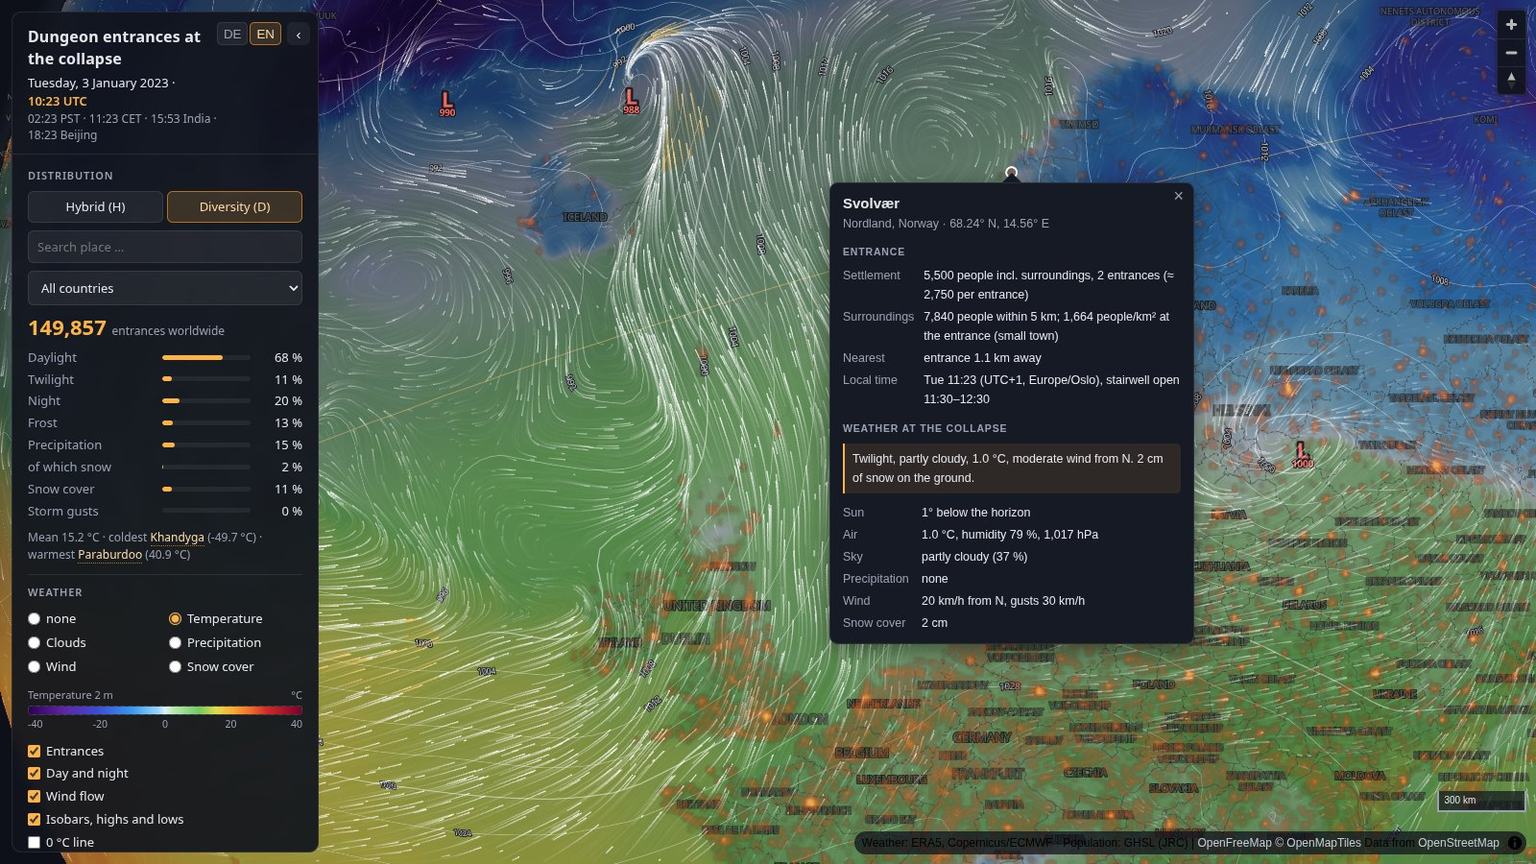
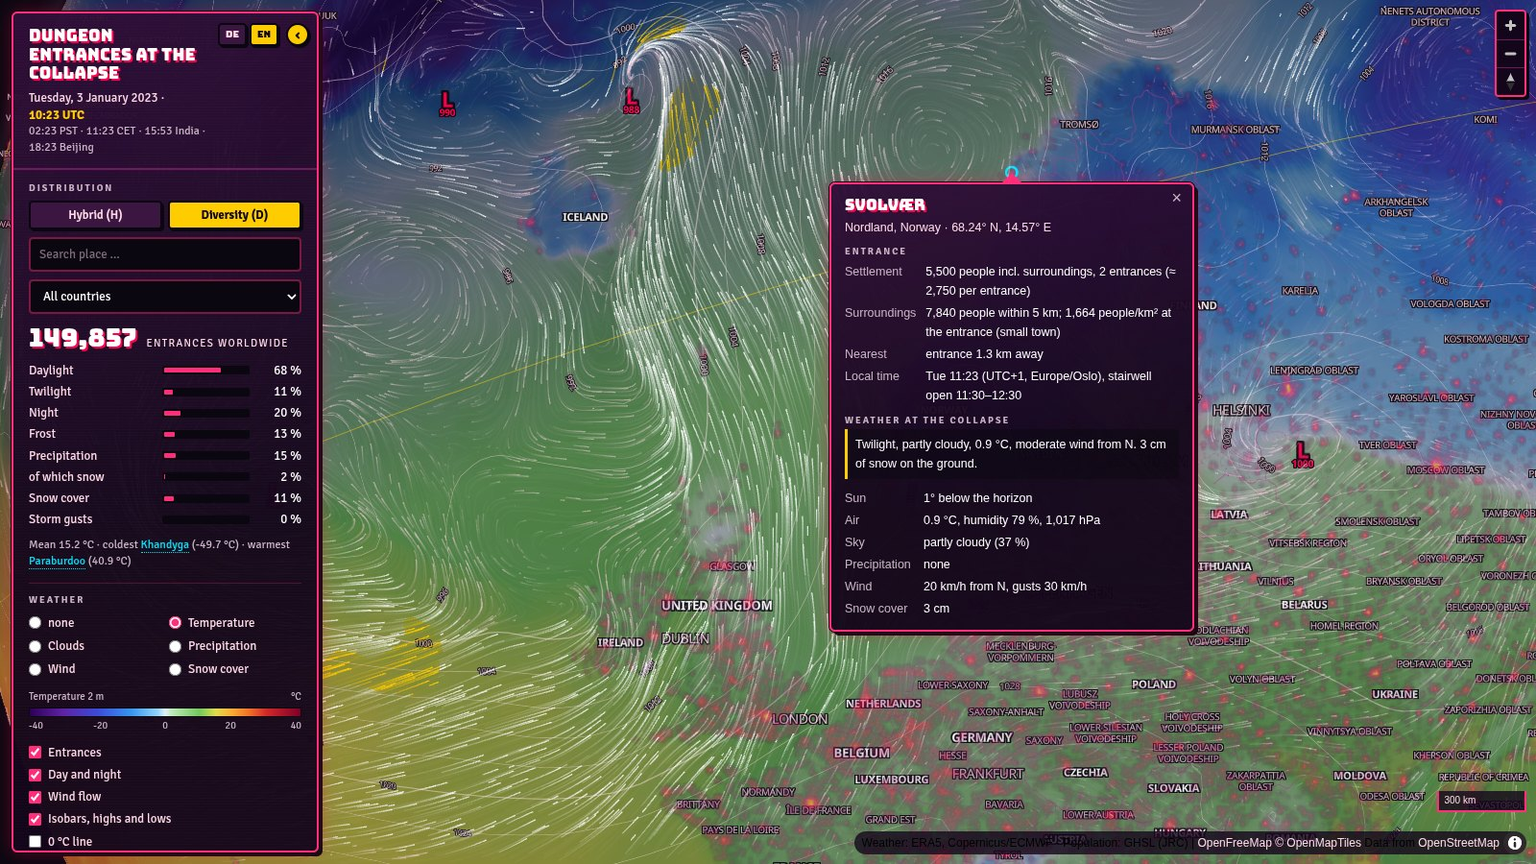
New look: plum panels, pink borders, ink shadows, Bungee headings
Panel, popup, controls and the cursor readout in a dark plum comic style; base map
tinted plum with light place labels on an ink halo, white country names; entrances
yellow, density from magenta to yellow and fading out earlier. Fonts: Bungee and
Signika (Google Fonts, OFL). New README screenshot.

diff --git a/web/app.css b/web/app.css
@@ -1,126 +1,160 @@
+/* Hausoptik: Pflaumen-Grund, pinker Rand, Tintenschatten, Überschriften mit Magenta-Versatz, Gelb und Cyan als Akzent.
+   House look: plum panels, pink border, ink drop shadow, headings with a magenta offset, yellow and cyan accents. */
 :root {
-  --grund: #0d1018;
-  --panel: rgba(16, 19, 28, 0.92);
-  --rand: rgba(255, 255, 255, 0.09);
-  --text: #e6e8ee;
-  --leise: #9aa1b2;
-  --akzent: #ffb347;
-  --akzent-dunkel: #b8701c;
-  --feld: rgba(255, 255, 255, 0.06);
+  --ink: #0b0710;
+  --plum: #14061a;
+  --plum-2: #2a1230;
+  --plum-3: #3a1640;
+  --plum-hell: #6e1a5c;
+  --mag: #ff004c;
+  --pink: #ff2d7a;
+  --yel: #ffcc00;
+  --cyan: #00e5ff;
+  --mute: #c9b3c4;
+  --rose: #ffd9e6;
+  --text: #fff;
+  --kopf: "Bungee", "Signika", sans-serif;
+  --panel-grund: linear-gradient(165deg, rgba(48, 14, 56, .96) 0%, rgba(20, 6, 26, .96) 62%);
+  --panel-schatten: 0 0 0 1px var(--ink), 0 0 16px rgba(255, 0, 76, .35), 4px 4px 0 var(--ink);
 }
 
 * { box-sizing: border-box; }
-html, body { margin: 0; height: 100%; background: var(--grund); color: var(--text);
-  font: 13px/1.45 system-ui, "Inter", "Segoe UI", sans-serif; overflow: hidden; }
-#karte { position: absolute; inset: 0; background: var(--grund); }
+html, body { margin: 0; height: 100%; color: var(--text); overflow: hidden;
+  font: 400 13px/1.4 "Signika", system-ui, sans-serif;
+  background: radial-gradient(ellipse at 60% 40%, #2a0f30 0%, var(--ink) 70%); }
+#karte { position: absolute; inset: 0; background: transparent; }
 #windfeld { position: absolute; left: 0; top: 0; pointer-events: none; }
 
+/* ---------- Bedienfeld ---------- */
 #panel { position: absolute; top: 12px; left: 12px; bottom: 12px; width: 320px; z-index: 3;
-  background: var(--panel); border: 1px solid var(--rand); border-radius: 10px;
-  display: flex; flex-direction: column; backdrop-filter: blur(6px); transition: transform .2s ease; }
-#panel.zu { transform: translateX(calc(-100% + 34px)); }
+  background: var(--panel-grund); border: 2px solid var(--pink); border-radius: 6px; box-shadow: var(--panel-schatten);
+  display: flex; flex-direction: column; transition: transform .2s ease; }
+#panel::after { content: ""; position: absolute; inset: 0; border-radius: 4px; pointer-events: none; opacity: .5;
+  background: repeating-linear-gradient(0deg, rgba(255, 255, 255, .025) 0 1px, transparent 1px 3px); }
+#panel.zu { transform: translateX(calc(-100% + 36px)); }
 #panel.zu .inhalt { visibility: hidden; }
-#panel header { position: relative; padding: 14px 92px 10px 16px; border-bottom: 1px solid var(--rand); }
-#panel h1 { margin: 0 0 4px; font-size: 16px; font-weight: 650; letter-spacing: .01em; }
-#panel .zeit { margin: 0; color: var(--text); }
-#panel .zeit b { color: var(--akzent); font-weight: 600; white-space: nowrap; }
-#panel .klein { color: var(--leise); font-size: 12px; }
-#einklappen { position: absolute; top: 10px; right: 8px; width: 24px; height: 24px; border: 0; border-radius: 6px;
-  background: var(--feld); color: var(--text); cursor: pointer; font-size: 15px; line-height: 1; }
-#panel.zu #einklappen { transform: rotate(180deg); }
-#panel .sprache { position: absolute; top: 10px; right: 38px; display: flex; gap: 2px; }
-#panel .sprache button { height: 24px; padding: 0 6px; border: 1px solid var(--rand); border-radius: 5px; background: var(--feld);
-  color: var(--leise); font: 600 10.5px/1 inherit; cursor: pointer; }
-#panel .sprache button.an { color: #ffd9a3; border-color: var(--akzent-dunkel); background: rgba(255, 179, 71, .16); }
+#panel header { position: relative; padding: 14px 108px 12px 16px; border-bottom: 2px solid var(--plum-hell); }
+#panel h1 { margin: 0 0 6px; font: 400 17px/1.15 var(--kopf); text-transform: uppercase; letter-spacing: .01em;
+  color: #fff; text-shadow: 2px 2px 0 var(--mag); }
+#panel .zeit { margin: 0; color: var(--rose); }
+#panel .zeit b { color: var(--yel); font-weight: 700; white-space: nowrap; }
+#panel .klein { color: var(--mute); font-size: 12px; }
+#einklappen { position: absolute; top: 10px; right: 8px; width: 24px; height: 24px; padding: 0; z-index: 1;
+  border: 2px solid var(--ink); border-radius: 50%; background: var(--yel); color: var(--ink);
+  box-shadow: 2px 2px 0 var(--ink); cursor: pointer; font: 700 15px/1 "Signika", sans-serif; }
+#einklappen:hover { background: var(--mag); color: #fff; }
+#panel.zu #einklappen { transform: rotate(180deg); box-shadow: -2px -2px 0 var(--ink); }
+#panel .sprache { position: absolute; top: 10px; right: 40px; display: flex; gap: 3px; z-index: 1; }
+#panel .sprache button { height: 24px; padding: 0 6px; border: 2px solid var(--ink); border-radius: 4px;
+  background: var(--plum-3); color: var(--rose); font: 400 10px/1 var(--kopf); cursor: pointer; box-shadow: 2px 2px 0 var(--ink); }
+#panel .sprache button.an { background: var(--yel); color: var(--ink); }
 #panel.zu .sprache { visibility: hidden; }
-.inhalt { overflow-y: auto; padding: 4px 16px 12px; flex: 1; }
-section { padding: 10px 0 12px; border-bottom: 1px solid var(--rand); }
-h2 { margin: 0 0 8px; font-size: 11px; font-weight: 600; letter-spacing: .08em; text-transform: uppercase; color: var(--leise); }
+.inhalt { position: relative; z-index: 1; overflow-y: auto; padding: 2px 16px 12px; flex: 1;
+  scrollbar-color: var(--plum-hell) transparent; }
+section { padding: 12px 0 13px; border-bottom: 1px solid rgba(255, 45, 122, .25); }
+h2 { margin: 0 0 8px; font: 700 10px/1 "Signika", sans-serif; letter-spacing: .2em; text-transform: uppercase; color: var(--mute); }
 
-input[type=search], select { width: 100%; padding: 7px 9px; border-radius: 6px; border: 1px solid var(--rand);
-  background: var(--feld); color: var(--text); font: inherit; outline: none; }
-input[type=search]:focus, select:focus { border-color: var(--akzent-dunkel); }
+input[type=search], select { width: 100%; padding: 7px 9px; border-radius: 4px; border: 2px solid rgba(255, 45, 122, .45);
+  background: var(--ink); color: #fff; font: inherit; outline: none; }
+input[type=search]::placeholder { color: #7d6a7a; }
+input[type=search]:focus, select:focus { border-color: var(--yel); }
 select { margin-top: 8px; }
+select option { background: var(--plum); }
 #verteilung { margin-bottom: 8px; }
-select option { background: #1b1f2b; }
 .suche { position: relative; }
 #treffer { list-style: none; margin: 0; padding: 0; position: absolute; left: 0; right: 0; top: 100%; z-index: 5;
-  background: #1b1f2b; border: 1px solid var(--rand); border-radius: 6px; max-height: 320px; overflow-y: auto; display: none; }
+  background: var(--plum); border: 2px solid var(--pink); border-radius: 4px; box-shadow: 3px 3px 0 var(--ink);
+  max-height: 320px; overflow-y: auto; display: none; }
 #treffer.offen { display: block; }
 #treffer li { padding: 6px 9px; cursor: pointer; display: flex; justify-content: space-between; gap: 8px; }
-#treffer li:hover, #treffer li.aktiv { background: rgba(255, 179, 71, .14); }
-#treffer li span { color: var(--leise); white-space: nowrap; }
+#treffer li:hover, #treffer li.aktiv { background: var(--plum-3); }
+#treffer li span { color: var(--mute); white-space: nowrap; }
 
-#statistik { margin-top: 10px; }
-#statistik .gesamt { font-size: 22px; font-weight: 650; color: var(--akzent); line-height: 1.1; }
-#statistik .gesamt small { font-size: 12px; font-weight: 400; color: var(--leise); }
-#statistik table { width: 100%; border-collapse: collapse; margin-top: 8px; }
+#statistik { margin-top: 12px; }
+#statistik .gesamt { font: 400 26px/1 var(--kopf); color: #fff; text-shadow: 2px 2px 0 var(--mag); }
+#statistik .gesamt small { font: 400 11px/1 "Signika", sans-serif; color: var(--rose); text-shadow: none;
+  text-transform: uppercase; letter-spacing: .12em; margin-left: 4px; }
+#statistik table { width: 100%; border-collapse: collapse; margin-top: 10px; }
 #statistik td { padding: 2px 0; vertical-align: middle; }
-#statistik td:first-child { color: var(--leise); width: 46%; }
-#statistik a { color: #ffd9a3; text-decoration: none; border-bottom: 1px dotted var(--akzent-dunkel); }
+#statistik td:first-child { color: var(--rose); width: 46%; }
+#statistik a { color: var(--cyan); text-decoration: none; border-bottom: 1px dotted var(--cyan); }
 #statistik td.zahl { text-align: right; width: 54px; font-variant-numeric: tabular-nums; }
-#statistik .balken { height: 5px; border-radius: 3px; background: var(--feld); margin-left: 8px; overflow: hidden; }
-#statistik .balken i { display: block; height: 100%; background: var(--akzent); border-radius: 3px; }
+#statistik .balken { height: 9px; padding: 2px; border-radius: 2px; background: var(--ink); margin-left: 8px; overflow: hidden; }
+#statistik .balken i { display: block; height: 100%; background: var(--pink); border-radius: 1px; }
+#statistik .klein { color: var(--mute) !important; }
 
 .wahl { display: grid; grid-template-columns: 1fr 1fr; gap: 2px 8px; }
-.wahl label, .schalter label { cursor: pointer; display: flex; align-items: center; gap: 6px; padding: 2px 0; }
+.wahl label, .schalter label { cursor: pointer; display: flex; align-items: center; gap: 7px; padding: 2px 0; color: var(--rose); }
 .schalter { margin-top: 10px; display: grid; gap: 1px; }
-input[type=radio], input[type=checkbox] { accent-color: var(--akzent); margin: 0; }
+input[type=radio], input[type=checkbox] { accent-color: var(--pink); margin: 0; }
 
 #legende { margin-top: 10px; }
 #legende .reihe { margin-bottom: 6px; }
-#legende .titel { color: var(--leise); font-size: 11px; margin-bottom: 3px; display: flex; justify-content: space-between; }
-#legende .verlauf { height: 10px; border-radius: 3px; border: 1px solid var(--rand);
-  background-image: linear-gradient(45deg, #2a2f3d 25%, transparent 25%, transparent 75%, #2a2f3d 75%),
-    linear-gradient(45deg, #2a2f3d 25%, transparent 25%, transparent 75%, #2a2f3d 75%);
-  background-size: 8px 8px; background-position: 0 0, 4px 4px; position: relative; overflow: hidden; }
+#legende .titel { color: var(--mute); font-size: 11px; margin-bottom: 3px; display: flex; justify-content: space-between; }
+#legende .verlauf { height: 10px; border-radius: 2px; border: 1px solid var(--ink); position: relative; overflow: hidden;
+  background-image: linear-gradient(45deg, var(--plum-3) 25%, transparent 25%, transparent 75%, var(--plum-3) 75%),
+    linear-gradient(45deg, var(--plum-3) 25%, transparent 25%, transparent 75%, var(--plum-3) 75%);
+  background-size: 8px 8px; background-position: 0 0, 4px 4px; }
 #legende .verlauf i { position: absolute; inset: 0; }
-#legende .marken { display: flex; justify-content: space-between; font-size: 10.5px; color: var(--leise);
+#legende .marken { display: flex; justify-content: space-between; font-size: 10.5px; color: var(--mute);
   font-variant-numeric: tabular-nums; margin-top: 2px; }
 
-.knoepfe { display: flex; gap: 4px; margin-bottom: 6px; }
-.knoepfe button { flex: 1; padding: 6px 4px; border-radius: 6px; border: 1px solid var(--rand); background: var(--feld);
-  color: var(--text); font: inherit; cursor: pointer; }
-.knoepfe button.an { border-color: var(--akzent-dunkel); background: rgba(255, 179, 71, .16); color: #ffd9a3; }
+.knoepfe { display: flex; gap: 6px; margin-bottom: 8px; }
+.knoepfe button { flex: 1; padding: 6px 4px 5px; border: 2px solid var(--ink); border-radius: 4px; background: var(--plum-3);
+  color: var(--rose); font: 600 12.5px/1.2 "Signika", sans-serif; cursor: pointer; box-shadow: 2px 2px 0 var(--ink); }
+.knoepfe button:hover { background: var(--plum-hell); color: #fff; }
+.knoepfe button.an { background: var(--yel); color: var(--ink); font-weight: 700; }
 
-footer { padding-top: 10px; color: var(--leise); font-size: 11.5px; }
+footer { position: relative; padding-top: 10px; color: var(--mute); font-size: 11.5px; }
 footer p { margin: 0 0 6px; }
-footer a { color: #ffd9a3; }
+footer b { color: var(--rose); }
+footer a { color: var(--cyan); }
 
+/* ---------- Leiste unter dem Mauszeiger ---------- */
 #zeiger { position: absolute; left: calc(50% + 170px); bottom: 34px; transform: translateX(-50%); z-index: 2;
-  background: var(--panel); border: 1px solid var(--rand); border-radius: 8px; padding: 5px 11px;
-  font-variant-numeric: tabular-nums; color: var(--text); pointer-events: none; white-space: nowrap;
+  background: var(--panel-grund); border: 2px solid var(--pink); border-radius: 4px; box-shadow: 3px 3px 0 var(--ink);
+  padding: 5px 11px; font-variant-numeric: tabular-nums; color: #fff; pointer-events: none; white-space: nowrap;
   display: none; font-size: 12px; }
-#zeiger span { color: var(--leise); }
+#zeiger span { color: var(--mute); }
 #panel.zu ~ #zeiger { left: 50%; }
 
-#laden { position: absolute; inset: 0; display: grid; place-items: center; z-index: 10; background: var(--grund);
-  color: var(--leise); font-size: 14px; }
+#laden { position: absolute; inset: 0; display: grid; place-items: center; z-index: 10; background: var(--ink);
+  color: #fff; font: 400 18px/1 var(--kopf); text-shadow: 2px 2px 0 var(--mag); text-transform: uppercase; }
 #laden.weg { display: none; }
 
-/* Popup */
-.maplibregl-popup-content { background: #161a24; color: var(--text); border: 1px solid var(--rand); border-radius: 9px;
-  padding: 11px 13px 10px; box-shadow: 0 6px 24px rgba(0, 0, 0, .45); min-width: 300px; font-size: 12.5px;
+/* ---------- Popup ---------- */
+.maplibregl-popup-content { background: var(--panel-grund); color: #fff; border: 2px solid var(--pink); border-radius: 6px;
+  padding: 12px 14px 11px; box-shadow: var(--panel-schatten); min-width: 300px; font-size: 12.5px;
   max-height: calc(100vh - 80px); overflow-y: auto; }
-.maplibregl-popup-tip { border-top-color: #161a24 !important; border-bottom-color: #161a24 !important; }
-.maplibregl-popup-close-button { color: var(--leise); font-size: 18px; right: 4px; top: 2px; }
-.pop h3 { margin: 0 18px 1px 0; font-size: 15px; font-weight: 650; }
-.pop .unter { color: var(--leise); margin-bottom: 7px; }
-.pop h4 { margin: 9px 0 3px; font-size: 10.5px; font-weight: 600; letter-spacing: .08em; text-transform: uppercase;
-  color: var(--leise); }
-.pop .satz { margin: 6px 0 8px; padding: 6px 8px; background: rgba(255, 179, 71, .1); border-left: 2px solid var(--akzent);
-  border-radius: 0 5px 5px 0; }
+.maplibregl-popup-anchor-top .maplibregl-popup-tip, .maplibregl-popup-anchor-top-left .maplibregl-popup-tip,
+.maplibregl-popup-anchor-top-right .maplibregl-popup-tip { border-bottom-color: var(--pink) !important; }
+.maplibregl-popup-anchor-bottom .maplibregl-popup-tip, .maplibregl-popup-anchor-bottom-left .maplibregl-popup-tip,
+.maplibregl-popup-anchor-bottom-right .maplibregl-popup-tip { border-top-color: var(--pink) !important; }
+.maplibregl-popup-anchor-left .maplibregl-popup-tip { border-right-color: var(--pink) !important; }
+.maplibregl-popup-anchor-right .maplibregl-popup-tip { border-left-color: var(--pink) !important; }
+.maplibregl-popup-close-button { color: var(--mute); font-size: 18px; right: 5px; top: 3px; }
+.maplibregl-popup-close-button:hover { color: #fff; background: none; }
+.pop h3 { margin: 0 20px 4px 0; font: 400 16px/1.2 var(--kopf); text-transform: uppercase; color: #fff;
+  text-shadow: 2px 2px 0 var(--mag); }
+.pop .unter { color: var(--rose); margin-bottom: 6px; }
+.pop h4 { margin: 10px 0 4px; font: 700 10px/1 "Signika", sans-serif; letter-spacing: .2em; text-transform: uppercase;
+  color: var(--mute); }
+.pop .satz { margin: 4px 0 8px; padding: 6px 8px; background: rgba(11, 7, 16, .55); border-left: 3px solid var(--yel);
+  border-radius: 0 4px 4px 0; }
 .pop table { border-collapse: collapse; width: 100%; }
 .pop td { padding: 1.5px 0; vertical-align: top; }
-.pop td:first-child { color: var(--leise); padding-right: 10px; white-space: nowrap; width: 82px; }
-.pop .weitere { margin-top: 6px; color: var(--leise); font-size: 11.5px; }
+.pop td:first-child { color: var(--mute); padding-right: 10px; white-space: nowrap; width: 82px; }
+.pop .weitere { margin: 2px 0 4px; color: var(--mute); font-size: 11.5px; }
 
-.maplibregl-ctrl-group { background: var(--panel) !important; border: 1px solid var(--rand); }
-.maplibregl-ctrl-group button + button { border-top-color: var(--rand) !important; }
-.maplibregl-ctrl-group button .maplibregl-ctrl-icon { filter: invert(1) brightness(.9); }
-.maplibregl-ctrl-attrib { background: rgba(16, 19, 28, .75) !important; color: var(--leise); }
-.maplibregl-ctrl-attrib a { color: #c6cbd8; }
-.maplibregl-ctrl-scale { background: rgba(16, 19, 28, .7); color: var(--text); border-color: var(--leise); }
+/* ---------- Kartensteuerung ---------- */
+.maplibregl-ctrl-group { background: var(--plum) !important; border: 2px solid var(--pink);
+  box-shadow: 3px 3px 0 var(--ink) !important; border-radius: 4px !important; }
+.maplibregl-ctrl-group button + button { border-top-color: var(--plum-hell) !important; }
+.maplibregl-ctrl-group button .maplibregl-ctrl-icon { filter: invert(1) brightness(.95); }
+.maplibregl-ctrl-attrib { background: rgba(20, 6, 26, .8) !important; color: var(--mute); }
+.maplibregl-ctrl-attrib a { color: var(--rose); }
+.maplibregl-ctrl-attrib-button { filter: invert(1); }
+.maplibregl-ctrl-scale { background: rgba(20, 6, 26, .8); color: var(--rose); border-color: var(--pink); }
 
 @media (max-width: 640px) {
   #panel { top: 8px; left: 8px; right: 8px; bottom: auto; width: auto; max-height: 55vh; }

diff --git a/web/app.js b/web/app.js
@@ -375,6 +375,37 @@ async function ladeBasis(name) {
   return stil;
 }
 
+// Hausfarben für die Grundkarte: Pflaumentöne, Ortsnamen hell mit Tintenrand (Hell bleibt hell, nur dunklere Schrift)
+const HAUS = { ink: '#0b0710', plum: '#1a0a22', land: '#241030', bau: '#2e1238', weg: '#3d1a45', grenze: '#a33c84',
+  wasser: '#0a0613', ort: '#ffd9e6', staat: '#ffffff', wassername: '#7fd8ea', strasse: '#c9b3c4' };
+
+function hausfarben(s) {
+  const dunkel = zustand.grundkarte !== 'hell';
+  for (const l of s.layers) {
+    const id = l.id, p = (l.paint ||= {});
+    if (l.type === 'symbol' && l.layout?.['text-field']) {
+      const staat = id.startsWith('place_country'), wasser = id === 'water_name';
+      const strasse = id.startsWith('highway') || id.startsWith('road');
+      if (staat) l.layout['text-font'] = ['Noto Sans Bold'];
+      p['text-color'] = dunkel ? (staat ? HAUS.staat : wasser ? HAUS.wassername : strasse ? HAUS.strasse : HAUS.ort)
+        : (staat ? '#6e1a5c' : wasser ? '#2a6b8a' : '#3a1640');
+      p['text-halo-color'] = dunkel ? HAUS.ink : '#ffffff';
+      p['text-halo-width'] = staat ? 1.8 : 1.5;
+      p['text-halo-blur'] = 0;
+      continue;
+    }
+    if (zustand.grundkarte !== 'dunkel') continue;
+    if (l.type === 'background') p['background-color'] = HAUS.plum;
+    else if (id === 'water') p['fill-color'] = HAUS.wasser;
+    else if (id === 'waterway') p['line-color'] = HAUS.wasser;
+    else if (l.type === 'fill' && /^(landcover|landuse|aeroway)/.test(id)) { p['fill-color'] = HAUS.land; p['fill-opacity'] = 0.7; }
+    else if (id === 'building') p['fill-color'] = HAUS.bau;
+    else if (id.startsWith('boundary_country')) p['line-color'] = HAUS.grenze;
+    else if (id.startsWith('boundary')) p['line-color'] = 'rgba(163, 60, 132, 0.45)';
+    else if (l.type === 'line' && /^(highway|railway|road|aeroway)/.test(id)) p['line-color'] = HAUS.weg;
+  }
+}
+
 const sicht = an => (an ? 'visible' : 'none');
 const landFilter = () => (zustand.land ? ['==', ['get', 'cc'], zustand.land] : null);
 const filterTeil = () => (zustand.land ? { filter: landFilter() } : {});
@@ -386,9 +417,10 @@ function baueStil() {
     const tf = l.layout && l.layout['text-field'];
     if (tf && JSON.stringify(tf).includes('name')) l.layout['text-field'] = beschriftung();
   }
+  hausfarben(s);
   s.projection = { type: zustand.projektion };
   s.sky = { 'atmosphere-blend': ['interpolate', ['linear'], ['zoom'], 0, 1, 5, 1, 7, 0] };
-  const strich = hell() ? 'rgba(40,50,80,' : 'rgba(255,255,255,';
+  const strich = hell() ? 'rgba(58,22,64,' : 'rgba(255,217,230,';
   const wetter = [];
   for (const n of [...WETTER, 'nacht']) {
     s.sources['w-' + n] = { type: 'raster', tileSize: 256, maxzoom: 4, tiles: [`${DATEN}kacheln/${n}/{z}/{x}/{y}.png`] };
@@ -406,9 +438,9 @@ function baueStil() {
   s.sources.auswahl = { type: 'geojson', data: leer };
   const linien = [
     { id: 'nullgrad', type: 'line', source: 'nullgrad', layout: { visibility: sicht(zustand.nullgrad) },
-      paint: { 'line-color': hell() ? '#2b6cd6' : '#8fd0ff', 'line-width': 1.6, 'line-dasharray': [3, 2] } },
+      paint: { 'line-color': hell() ? '#0087a8' : '#00e5ff', 'line-width': 1.6, 'line-dasharray': [3, 2] } },
     { id: 'terminator', type: 'line', source: 'terminator', layout: { visibility: sicht(zustand.nacht) },
-      paint: { 'line-color': 'rgba(255,190,110,0.55)', 'line-width': 1 } },
+      paint: { 'line-color': 'rgba(255,204,0,0.55)', 'line-width': 1 } },
     { id: 'isobaren', type: 'line', source: 'isobaren', layout: { visibility: sicht(zustand.isobaren) },
       paint: { 'line-color': strich + '0.5)', 'line-width': ['case', ['==', ['%', ['get', 'hpa'], 20], 0], 1.4, 0.7] } },
   ];
@@ -419,13 +451,13 @@ function baueStil() {
     { id: 'isobaren-zahl', type: 'symbol', source: 'isobaren', layout: { visibility: sicht(zustand.isobaren),
       'symbol-placement': 'line', 'symbol-spacing': 320, 'text-field': ['to-string', ['get', 'hpa']],
       'text-font': ['Noto Sans Regular'], 'text-size': 10 },
-    paint: { 'text-color': strich + '0.85)', 'text-halo-color': hell() ? '#fff' : '#0d1018', 'text-halo-width': 1.2 } },
+    paint: { 'text-color': strich + '0.9)', 'text-halo-color': hell() ? '#fff' : '#0b0710', 'text-halo-width': 1.2 } },
     { id: 'druckzentren', type: 'symbol', source: 'druckzentren', layout: { visibility: sicht(zustand.isobaren),
       'text-field': ['format', ['match', ['get', 'typ'], 'H', hoch[0], hoch[1]], { 'font-scale': 1.5 }, '\n', {},
         ['to-string', ['get', 'hpa']], { 'font-scale': 0.7 }],
       'text-font': ['Noto Sans Bold'], 'text-size': 15, 'text-allow-overlap': true, 'text-line-height': 1 },
-    paint: { 'text-color': ['match', ['get', 'typ'], 'H', '#5fa8ff', '#ff6b5f'],
-      'text-halo-color': hell() ? '#fff' : '#0d1018', 'text-halo-width': 1.5 } },
+    paint: { 'text-color': ['match', ['get', 'typ'], 'H', '#00e5ff', '#ff004c'],
+      'text-halo-color': hell() ? '#fff' : '#0b0710', 'text-halo-width': 1.8 } },
     { id: 'zugaenge-dichte', type: 'heatmap', source: 'zugaenge', maxzoom: 9, ...filterTeil(),
       layout: { visibility: sicht(zustand.zugaenge) },
       paint: {
@@ -433,21 +465,21 @@ function baueStil() {
         'heatmap-intensity': ['interpolate', ['linear'], ['zoom'], 0, 0.012, 2, 0.04, 4, 0.15, 6, 0.5, 9, 1.4],
         'heatmap-radius': ['interpolate', ['linear'], ['zoom'], 0, 2, 2, 3.5, 4, 7, 6, 14, 9, 22],
         'heatmap-color': ['interpolate', ['linear'], ['heatmap-density'],
-          0, 'rgba(0,0,0,0)', 0.04, 'rgba(140,50,20,0.35)', 0.2, 'rgba(210,80,25,0.65)', 0.45, 'rgba(255,140,45,0.85)',
-          0.75, 'rgba(255,205,110,0.95)', 1, 'rgba(255,248,220,1)'],
-        'heatmap-opacity': ['interpolate', ['linear'], ['zoom'], 4, 0.9, 7, 0] } },
+          0, 'rgba(0,0,0,0)', 0.04, 'rgba(110,26,92,0.4)', 0.2, 'rgba(255,0,76,0.65)', 0.45, 'rgba(255,45,122,0.85)',
+          0.75, 'rgba(255,204,0,0.95)', 1, 'rgba(255,246,208,1)'],
+        'heatmap-opacity': ['interpolate', ['linear'], ['zoom'], 2, 0.8, 4, 0.65, 6, 0] } },
     { id: 'zugaenge-punkte', type: 'circle', source: 'zugaenge', minzoom: 3.5, ...filterTeil(),
       layout: { visibility: sicht(zustand.zugaenge) },
       paint: {
         'circle-radius': ['interpolate', ['linear'], ['zoom'], 4, 1.5, 8, 3.5, 12, 6],
-        'circle-color': '#ffb347',
-        'circle-stroke-color': '#2a1606',
+        'circle-color': '#ffcc00',
+        'circle-stroke-color': '#0b0710',
         'circle-stroke-width': ['interpolate', ['linear'], ['zoom'], 5, 0, 8, 1],
         'circle-opacity': ['interpolate', ['linear'], ['zoom'], 3.5, 0, 5.5, 0.92],
         'circle-stroke-opacity': ['interpolate', ['linear'], ['zoom'], 3.5, 0, 5.5, 0.92] } },
     { id: 'auswahl', type: 'circle', source: 'auswahl',
       paint: { 'circle-radius': ['interpolate', ['linear'], ['zoom'], 2, 4, 10, 9], 'circle-color': 'rgba(0,0,0,0)',
-        'circle-stroke-color': '#fff', 'circle-stroke-width': 2 } },
+        'circle-stroke-color': '#00e5ff', 'circle-stroke-width': 2.5 } },
   );
   return s;
 }
@@ -493,8 +525,8 @@ class Windfeld {
 
   farben() {
     this.palette = hell()
-      ? ['rgba(30,45,80,0.35)', 'rgba(30,45,80,0.6)', 'rgba(20,35,70,0.85)', 'rgba(150,40,20,0.95)']
-      : ['rgba(255,255,255,0.3)', 'rgba(255,255,255,0.55)', 'rgba(255,255,255,0.85)', 'rgba(255,215,140,0.95)'];
+      ? ['rgba(58,22,64,0.35)', 'rgba(58,22,64,0.6)', 'rgba(42,18,48,0.85)', 'rgba(255,0,76,0.95)']
+      : ['rgba(255,217,230,0.3)', 'rgba(255,217,230,0.55)', 'rgba(255,255,255,0.85)', 'rgba(255,204,0,0.95)'];
   }
 
   neu(p) {

diff --git a/web/index.html b/web/index.html
@@ -5,6 +5,9 @@
 <meta name="viewport" content="width=device-width, initial-scale=1">
 <title>Dungeon entrances at the collapse</title>
 <meta name="description" content="Unofficial Dungeon Crawler Carl fan map: 150,000 dungeon entrances worldwide with the weather at the moment of the collapse (ERA5).">
+<link rel="preconnect" href="https://fonts.googleapis.com">
+<link rel="preconnect" href="https://fonts.gstatic.com" crossorigin>
+<link rel="stylesheet" href="https://fonts.googleapis.com/css2?family=Bungee&family=Signika:wght@400;600;700&display=swap">
 <link rel="stylesheet" href="https://unpkg.com/maplibre-gl@5.24.0/dist/maplibre-gl.css">
 <link rel="stylesheet" href="app.css">
 </head>
